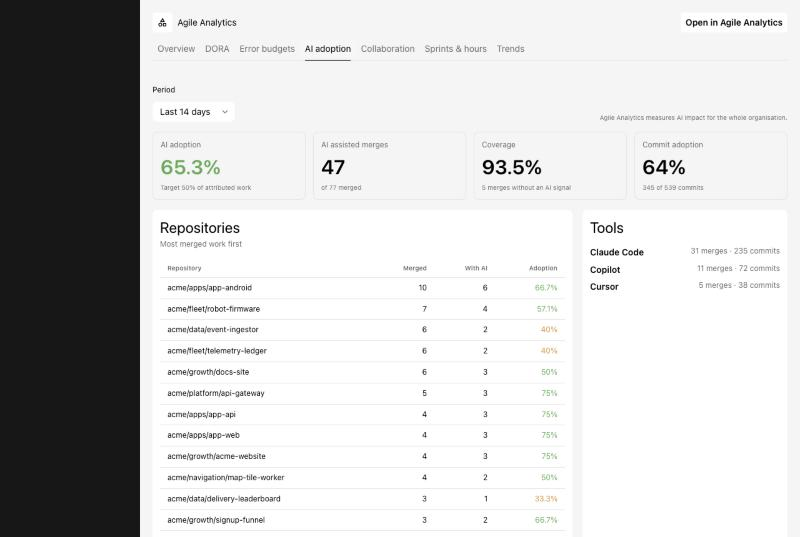
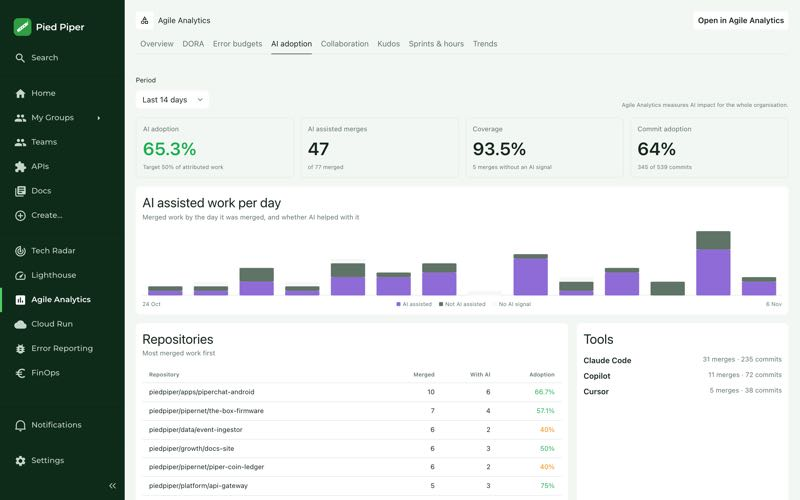
Refresh the README screenshots from d8688c8
New overview (health ring and insights), DORA, error budgets and AI
adoption shots, plus the Kudos tab and the Error budget and Delivery
cards on a component page.

diff --git a/README.md b/README.md
@@ -56,6 +56,12 @@ kept in the URL, so every view can be linked to.
   project.
 - **Trends**: DORA and AI adoption per week over 13, 26 or 52 weeks.
 
+| DORA                                                 | Error budgets                                            |
+| ---------------------------------------------------- | -------------------------------------------------------- |
+| ![DORA tab](docs/screenshots/dora.jpg)               | ![Error budgets tab](docs/screenshots/error-budgets.jpg) |
+| **AI adoption**                                      | **Kudos**                                                |
+| ![AI adoption tab](docs/screenshots/ai-adoption.jpg) | ![Kudos tab](docs/screenshots/kudos.jpg)                 |
+
 Three entity cards:
 
 - **Error budget**: the SLOs of one service, on entities with the
@@ -65,9 +71,7 @@ Three entity cards:
 - **Delivery**: the DORA metrics, ownership and AI adoption of one
   repository, on entities linked to a repository.
 
-| DORA                                   | Error budgets                                            | AI adoption                                          |
-| -------------------------------------- | -------------------------------------------------------- | ---------------------------------------------------- |
-| ![DORA tab](docs/screenshots/dora.jpg) | ![Error budgets tab](docs/screenshots/error-budgets.jpg) | ![AI adoption tab](docs/screenshots/ai-adoption.jpg) |
+![The Error budget and Delivery cards on a component page](docs/screenshots/delivery-card.jpg)
 
 ## Install
 
